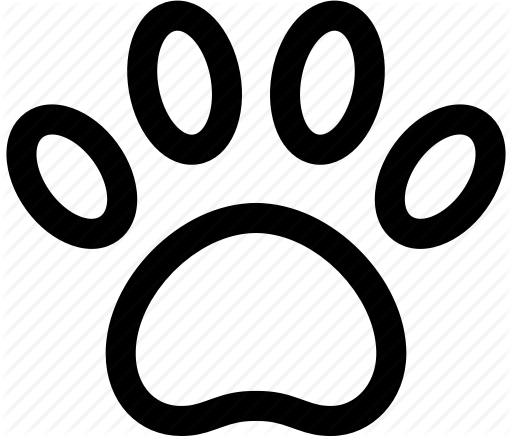
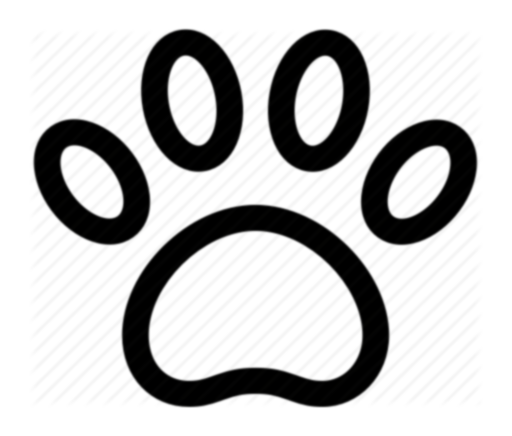
#218 Abstracted away most of the setup found in class visualization.
This means all other visualizations can now make use of it as well, such as the npc types and enemy forces display.
Also slightly cropped the beast.png image so it looks a lot better in the map.

diff --git a/resources/assets/js/custom/enemyvisuals/enemyvisualmainnpctype.js b/resources/assets/js/custom/enemyvisuals/enemyvisualmainnpctype.js
@@ -26,46 +26,13 @@ class EnemyVisualMainNpcType extends EnemyVisualMain {
     }
 
     _getTemplateData() {
-        console.assert(this instanceof EnemyVisualMainNpcType, this, 'this is not an EnemyVisualMainNpcType!');
+        console.assert(this instanceof EnemyVisualMainNpcType, 'this is not an EnemyVisualMainNpcType!', this);
 
-        let mainVisualOuterClasses = ['enemy_icon_npc_type'];
-        let mainVisualInnerClasses = ['enemy_icon', this.iconName];
+        let data = super._getTemplateData();
+        // Just append a single class
+        data.main_visual_outer_classes += ' enemy_icon_npc_type';
 
-        // Handle Teeming display
-        if (this.enemyvisual.enemy.teeming === 'visible' || this.enemyvisual.enemy.teeming === 'hidden') {
-            mainVisualOuterClasses.push('teeming');
-        }
-        // Handle beguiling display
-        if (this.enemyvisual.enemy.isBeguiling()) {
-            mainVisualInnerClasses.push('beguiling');
-        }
-
-        let npc = this.enemyvisual.enemy.npc;
-        if (npc !== null) {
-            mainVisualOuterClasses.push(npc.aggressiveness);
-
-            // Enchanted Emissary
-            if (npc.id === 155432) {
-                mainVisualInnerClasses.push('enchanted');
-            } else if (npc.id === 155433) {
-                mainVisualInnerClasses.push('void');
-            } else if (npc.id === 155434) {
-                mainVisualInnerClasses.push('tide');
-            }
-        }
-
-        // Any additional classes to add for when the enemy is selectable
-        let selectionClasses = [];
-        if (this.enemyvisual.enemy.isSelectable()) {
-            selectionClasses.push('selected_enemy_icon');
-        }
-
-        return {
-            // Set the main icon
-            main_visual_outer_classes: mainVisualOuterClasses.join(' '),
-            main_visual_inner_classes: mainVisualInnerClasses.join(' '),
-            selection_classes: selectionClasses.join(' ')
-        };
+        return data;
     }
 
     /**

diff --git a/resources/assets/js/custom/enemyvisuals/enemyvisualmain.js b/resources/assets/js/custom/enemyvisuals/enemyvisualmain.js
@@ -1,7 +1,3 @@
-/**
- * Main visual icons only define an extra size.
- */
-
 class EnemyVisualMain extends EnemyVisualIcon {
     constructor(enemyvisual) {
         super(enemyvisual);
@@ -28,6 +24,41 @@ class EnemyVisualMain extends EnemyVisualIcon {
 
     _zoomEnd() {
         this.enemyvisual.refresh();
+    }
+
+    _getTemplateData(width, height, margin) {
+        let data = super._getTemplateData(width, height, margin);
+
+        let mainVisualOuterClasses = [];
+        let mainVisualInnerClasses = ['enemy_icon', this.iconName];
+
+        // Handle Teeming display
+        if (this.enemyvisual.enemy.teeming === 'visible' || this.enemyvisual.enemy.teeming === 'hidden') {
+            mainVisualOuterClasses.push('teeming');
+        }
+        // Handle beguiling display
+        if (this.enemyvisual.enemy.isBeguiling()) {
+            mainVisualOuterClasses.push('beguiling');
+        }
+        let npc = this.enemyvisual.enemy.npc;
+        if (npc !== null) {
+            mainVisualOuterClasses.push(npc.aggressiveness);
+
+            mainVisualInnerClasses.push(npc.dangerous ? 'dangerous' : '');
+        }
+
+        // Any additional classes to add for when the enemy is selectable
+        let selectionClasses = [];
+        if (this.enemyvisual.enemy.isSelectable()) {
+            selectionClasses.push('selected_enemy_icon');
+        }
+
+        return $.extend(data, {
+            // Set the main icon
+            main_visual_outer_classes: mainVisualOuterClasses.join(' '),
+            main_visual_inner_classes: mainVisualInnerClasses.join(' '),
+            selection_classes: selectionClasses.join(' ')
+        });
     }
 
     /**

diff --git a/resources/assets/js/custom/enemyvisuals/enemyvisualmainenemyclass.js b/resources/assets/js/custom/enemyvisuals/enemyvisualmainenemyclass.js
@@ -27,36 +27,11 @@ class EnemyVisualMainEnemyClass extends EnemyVisualMain {
     _getTemplateData() {
         console.assert(this instanceof EnemyVisualMainEnemyClass, 'this is not an EnemyVisualMainEnemyClass!', this);
 
-        let mainVisualOuterClasses = ['enemy_icon_npc_class'];
-        let mainVisualInnerClasses = ['enemy_icon', this.iconName];
+        let data = super._getTemplateData();
+        // Just append a single class
+        data.main_visual_outer_classes += ' enemy_icon_npc_class';
 
-        // Handle Teeming display
-        if (this.enemyvisual.enemy.teeming === 'visible' || this.enemyvisual.enemy.teeming === 'hidden') {
-            mainVisualOuterClasses.push('teeming');
-        }
-        // Handle beguiling display
-        if (this.enemyvisual.enemy.isBeguiling()) {
-            mainVisualOuterClasses.push('beguiling');
-        }
-        let npc = this.enemyvisual.enemy.npc;
-        if (npc !== null) {
-            mainVisualOuterClasses.push(npc.aggressiveness);
-
-            mainVisualInnerClasses.push(npc.dangerous ? 'dangerous' : '');
-        }
-
-        // Any additional classes to add for when the enemy is selectable
-        let selectionClasses = [];
-        if (this.enemyvisual.enemy.isSelectable()) {
-            selectionClasses.push('selected_enemy_icon');
-        }
-
-        return {
-            // Set the main icon
-            main_visual_outer_classes: mainVisualOuterClasses.join(' '),
-            main_visual_inner_classes: mainVisualInnerClasses.join(' '),
-            selection_classes: selectionClasses.join(' ')
-        };
+        return data;
     }
 
     /**

diff --git a/resources/assets/js/custom/enemyvisuals/enemyvisualmainenemyforces.js b/resources/assets/js/custom/enemyvisuals/enemyvisualmainenemyforces.js
@@ -12,14 +12,14 @@ class EnemyVisualMainEnemyForces extends EnemyVisualMain {
     }
 
     _getTemplateData() {
-        console.assert(this instanceof EnemyVisualMainEnemyForces, 'this is not an EnemyVisualMainEnemyForces!', this);
+        console.assert(this instanceof EnemyVisualMainEnemyClass, 'this is not an EnemyVisualMainEnemyClass!', this);
 
-        return {
-            // Set the main html
-            main_visual_classes: 'badge badge-primary badge-pill badge_enemy_forces ' +
-                ((this.enemyvisual.enemy.teeming === 'visible' || this.enemyvisual.enemy.teeming === 'hidden') ? 'teeming' : ''),
-            main_visual_html: this.enemyvisual.enemy.getEnemyForces()
-        };
+        let data = super._getTemplateData();
+        // Just append a single class
+        data.main_visual_outer_classes += ' badge badge-primary badge-pill badge_enemy_forces';
+        data.main_visual_html = this.enemyvisual.enemy.getEnemyForces();
+
+        return data;
     }
 
     /**

diff --git a/resources/assets/js/custom/enemyvisuals/enemyvisualicon.js b/resources/assets/js/custom/enemyvisuals/enemyvisualicon.js
@@ -10,6 +10,14 @@ class EnemyVisualIcon extends Signalable {
         return [];
     }
 
+    /**
+     * Gets the data that's used to fill the enemy visual template.
+     * @param width
+     * @param height
+     * @param margin
+     * @returns {{id: *}}
+     * @protected
+     */
     _getTemplateData(width, height, margin) {
         console.assert(this instanceof EnemyVisualIcon, this, 'this was not an EnemyVisualIcon');
         return {id: this.enemyvisual.enemy.id};
